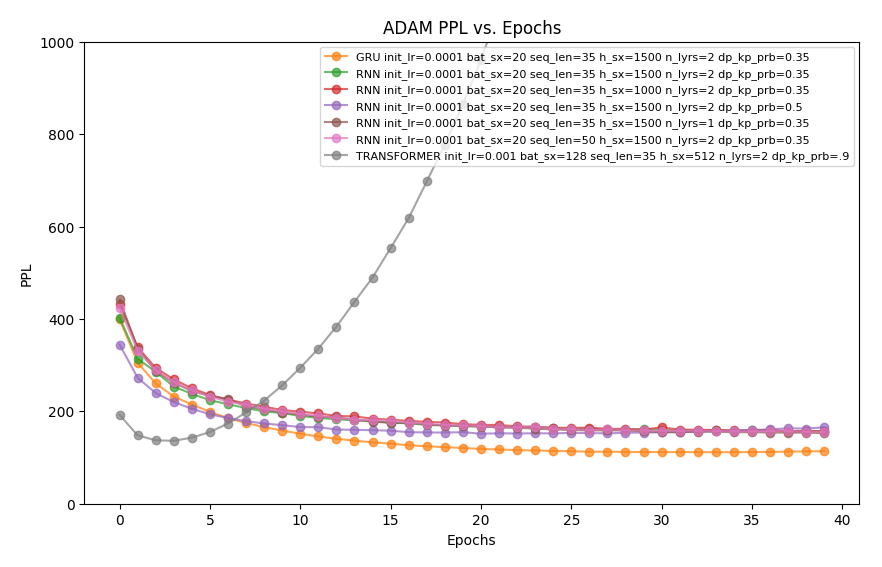
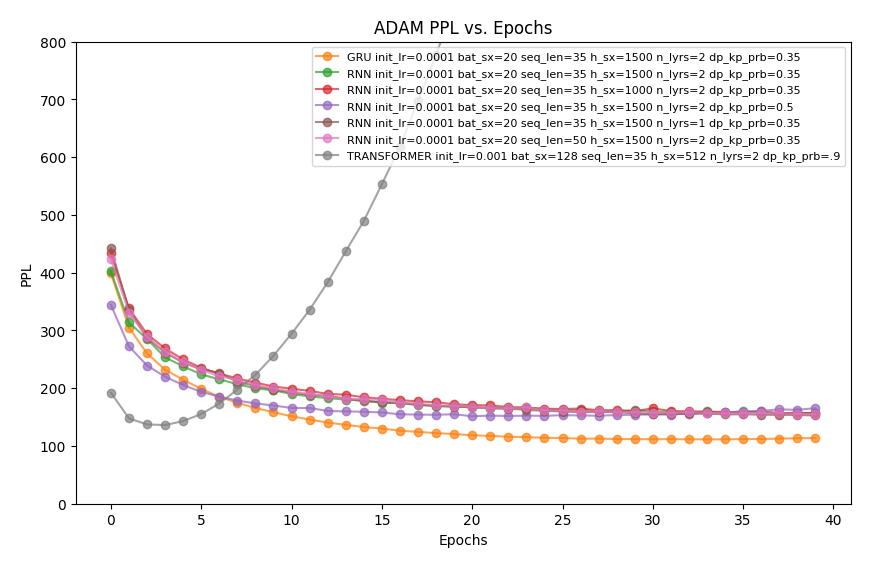
Updated graphed results

diff --git a/assignment2/4_graphing.py b/assignment2/4_graphing.py
@@ -140,7 +140,7 @@ def plot_valid_perf_by_optimizer(all_experiments: [ExperimentInfo], legend_size=
         opt_experiments = [e for e in all_experiments if e.optimizer == optimizer]
 
         opt_experiments.sort(key=lambda x: x.model)
-        y_lim = 3000 if optimizer == 'SGD' else 1000
+        y_lim = 3000 if optimizer == 'SGD' else (800 if optimizer == 'ADAM' else 1000)
 
         if not opt_experiments:
             continue
@@ -253,7 +253,7 @@ def graph_all_results():
 
     # 3) Plot section results
     print("Graphing results per section")
-    for section in sections:
+    for section in sections[:-1]:
         section_experiments = [e for e in experiments if e.section == section]
         plot_section_results(section, section_experiments, y_lim=3000 if section == '4_2' else 1000)
 
